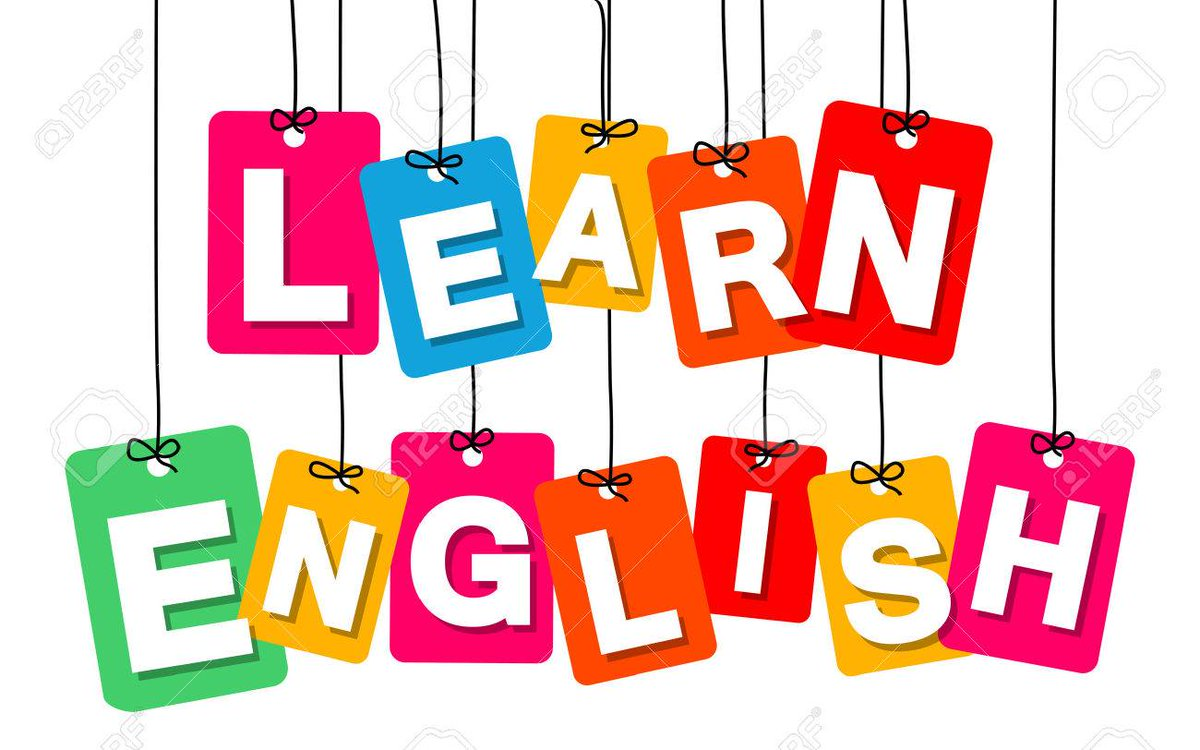
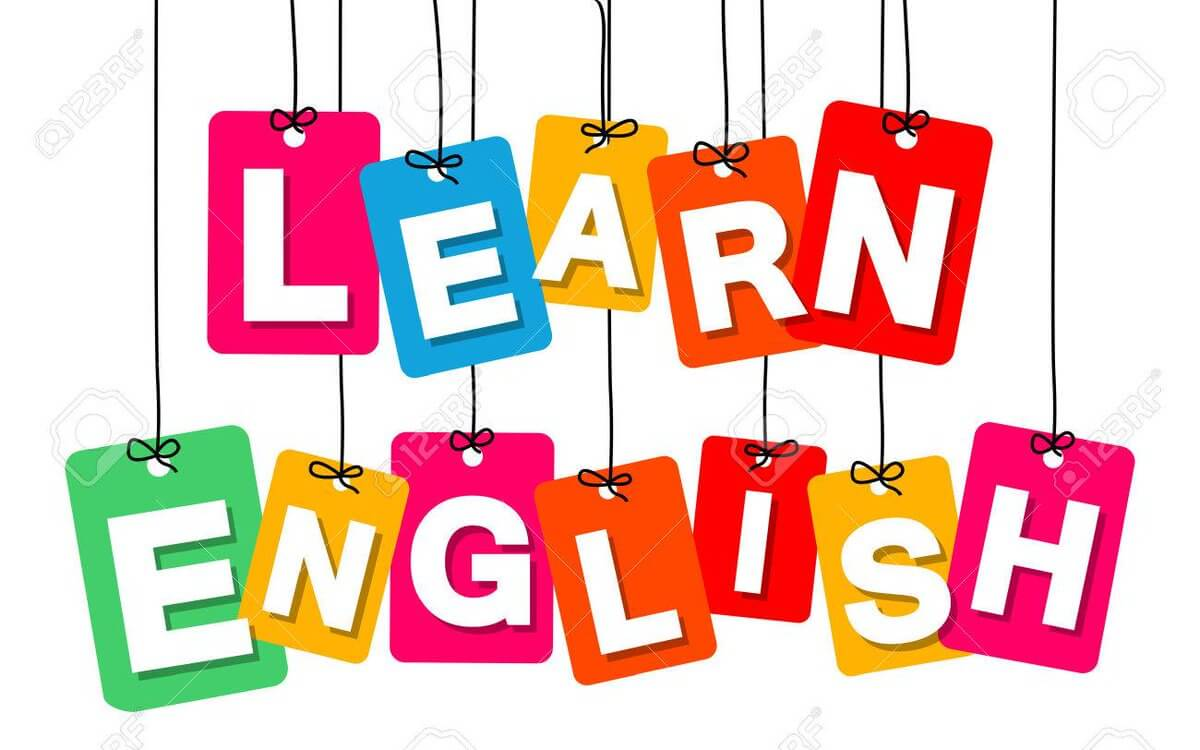
Resized Image & Added Demo Suffix Prefix

diff --git a/src/components/root/NavBar.jsx b/src/components/root/NavBar.jsx
@@ -27,7 +27,7 @@ function NavBar() {
                 </div>
                 <nav className={`${visibleMenu ? "flex" : "hidden"} transition-all duration-300 z-50 flex-col flex-grow pb-4 md:pb-0 md:flex md:justify-end md:flex-row`}>
                     <NavLink to="/courses" activeClassName="text-gray-900 bg-gray-200" className="px-4 py-2 mt-2 text-sm font-semibold rounded-lg dark-mode:bg-gray-700 dark-mode:hover:bg-gray-600 dark-mode:focus:bg-gray-600 dark-mode:focus:text-white dark-mode:hover:text-white dark-mode:text-gray-200 md:mt-0 hover:text-gray-900 focus:text-gray-900 hover:bg-gray-200 focus:bg-gray-200 focus:outline-none focus:shadow-outline" href="#">Grammer</NavLink>
-                    <NavLink to="/signup" activeClassName="text-gray-900 bg-gray-200" className="px-4 py-2 mt-2 text-sm font-semibold rounded-lg dark-mode:bg-gray-700 dark-mode:hover:bg-gray-600 dark-mode:focus:bg-gray-600 dark-mode:focus:text-white dark-mode:hover:text-white dark-mode:text-gray-200 md:mt-0 hover:text-gray-900 focus:text-gray-900 hover:bg-gray-200 focus:bg-gray-200 focus:outline-none focus:shadow-outline" href="#">Suffix & Prefix</NavLink>
+                    <NavLink to="/suffix-prefix" activeClassName="text-gray-900 bg-gray-200" className="px-4 py-2 mt-2 text-sm font-semibold rounded-lg dark-mode:bg-gray-700 dark-mode:hover:bg-gray-600 dark-mode:focus:bg-gray-600 dark-mode:focus:text-white dark-mode:hover:text-white dark-mode:text-gray-200 md:mt-0 hover:text-gray-900 focus:text-gray-900 hover:bg-gray-200 focus:bg-gray-200 focus:outline-none focus:shadow-outline">Suffix & Prefix</NavLink>
                     <NavLink to="/login" activeClassName="text-gray-900 bg-gray-200" className="px-4 py-2 mt-2 text-sm font-semibold rounded-lg dark-mode:bg-gray-700 dark-mode:hover:bg-gray-600 dark-mode:focus:bg-gray-600 dark-mode:focus:text-white dark-mode:hover:text-white dark-mode:text-gray-200 md:mt-0 hover:text-gray-900 focus:text-gray-900 hover:bg-gray-200 focus:bg-gray-200 focus:outline-none focus:shadow-outline" href="#">Vocabulary</NavLink>
                     <div onClick={toggleDrop}>
                         <button className="flex flex-row items-center w-full px-4 py-2 mt-2 text-sm font-semibold text-left bg-transparent rounded-lg dark-mode:bg-transparent dark-mode:focus:text-white dark-mode:hover:text-white dark-mode:focus:bg-gray-600 dark-mode:hover:bg-gray-600 md:w-auto md:inline md:mt-0 md:ml-4 hover:text-gray-900 focus:text-gray-900 hover:bg-gray-200 focus:bg-gray-200 focus:outline-none focus:shadow-outline">

diff --git a/src/components/Suffix&Prefix.jsx/SFHomepage.jsx b/src/components/Suffix&Prefix.jsx/SFHomepage.jsx
@@ -1,10 +1,28 @@
 import React from 'react'
+import { Link } from 'react-router-dom'
 
 function SFHomepage() {
     return (
-        <div>
-            
-        </div> 
+        <div class="flex justify-center h-full pb-8 bg-gray-200">
+            <div class="container">
+                <div class="flex justify-center p-4 my-4">
+                    <h1 class="text-xl text-blue-500">Suffix & Prefix</h1>
+                </div>
+                <div class="flex justify-center w-full">
+                    <div class="bg-white shadow-xl rounded-lg w-full md:w-1/2 mx-2">
+                        <ul class="divide-y divide-gray-300">
+                        <Link to="/suffix-prefix/er"><li class="SF-li border-b border-gray-400 flex justify-between content-center p-4 hover:bg-gray-50 cursor-pointer">Word Ends In "er" <span className="text-xl">➤</span></li></Link>
+                            <Link to="/suffix-prefix/er"><li class="SF-li border-b border-gray-400 flex justify-between content-center p-4 hover:bg-gray-50 cursor-pointer">Word Ends In "er" <span className="text-xl">➤</span></li></Link>
+                            <Link to="/suffix-prefix/er"><li class="SF-li border-b border-gray-400 flex justify-between content-center p-4 hover:bg-gray-50 cursor-pointer">Word Ends In "er" <span className="text-xl">➤</span></li></Link>
+                            <Link to="/suffix-prefix/er"><li class="SF-li border-b border-gray-400 flex justify-between content-center p-4 hover:bg-gray-50 cursor-pointer">Word Ends In "er" <span className="text-xl">➤</span></li></Link>
+                            <Link to="/suffix-prefix/er"><li class="SF-li border-b border-gray-400 flex justify-between content-center p-4 hover:bg-gray-50 cursor-pointer">Word Ends In "er" <span className="text-xl">➤</span></li></Link>
+                            <Link to="/suffix-prefix/er"><li class="SF-li border-b border-gray-400 flex justify-between content-center p-4 hover:bg-gray-50 cursor-pointer">Word Ends In "er" <span className="text-xl">➤</span></li></Link>
+
+                        </ul>
+                    </div>
+                </div>
+            </div>
+        </div>
     )
 }
 

diff --git a/src/components/Suffix&Prefix.jsx/SFWordPage.jsx b/src/components/Suffix&Prefix.jsx/SFWordPage.jsx
@@ -1,0 +1,30 @@
+import React from 'react'
+import { Link, useParams } from 'react-router-dom'
+
+function SFWordPage() {
+    const { wordEndIn } = useParams()
+    return (
+        <div class="flex justify-center h-full pb-8 bg-gray-200">
+            <div class="container">
+                <div class="flex justify-center p-4 my-4">
+                    <h1 class="text-xl text-blue-500">Word Ends In "{wordEndIn}"</h1>
+                </div>
+                <div class="flex justify-center w-full">
+                    <div class="bg-white shadow-xl rounded-lg w-full md:w-1/2 mx-2">
+                        <ul class="">
+                            <li class="SF-li border-b border-gray-400 flex justify-around content-center p-4 hover:bg-gray-50 cursor-pointer">Another<span> = </span><span>অন্যান্য</span></li>
+                            <li class="SF-li border-b border-gray-400 flex justify-around content-center p-4 hover:bg-gray-50 cursor-pointer">Another<span> = </span><span>অন্যান্য</span></li>
+                            <li class="SF-li border-b border-gray-400 flex justify-around content-center p-4 hover:bg-gray-50 cursor-pointer">Another<span> = </span><span>অন্যান্য</span></li>
+                            <li class="SF-li border-b border-gray-400 flex justify-around content-center p-4 hover:bg-gray-50 cursor-pointer">Another<span> = </span><span>অন্যান্য</span></li>
+                            <li class="SF-li border-b border-gray-400 flex justify-around content-center p-4 hover:bg-gray-50 cursor-pointer">Another<span> = </span><span>অন্যান্য</span></li>
+                            <li class="SF-li border-b border-gray-400 flex justify-around content-center p-4 hover:bg-gray-50 cursor-pointer">Another<span> = </span><span>অন্যান্য</span></li>
+
+                        </ul>
+                    </div>
+                </div>
+            </div>
+        </div>
+    )
+}
+
+export default SFWordPage

diff --git a/src/App.css b/src/App.css
@@ -1,38 +1,8 @@
-.App {
-  text-align: center;
-}
-
-.App-logo {
-  height: 40vmin;
-  pointer-events: none;
-}
-
-@media (prefers-reduced-motion: no-preference) {
-  .App-logo {
-    animation: App-logo-spin infinite 20s linear;
-  }
-}
-
-.App-header {
-  background-color: #282c34;
-  min-height: 100vh;
-  display: flex;
-  flex-direction: column;
-  align-items: center;
-  justify-content: center;
-  font-size: calc(10px + 2vmin);
-  color: white;
-}
-
-.App-link {
-  color: #61dafb;
-}
-
-@keyframes App-logo-spin {
-  from {
-    transform: rotate(0deg);
-  }
-  to {
-    transform: rotate(360deg);
-  }
+.SF-li:hover{
+  box-shadow: 0px 20px 40px rgba(0,0,0,0.4);
+  transform: scale(1.01,1.01);
+  -moz-transition: all 0.4s ease-in-out;
+  -o-transition: all 0.4s ease-in-out;
+  -webkit-transition: all 0.4s ease-in-out;
+  transition: all 0.4s ease-in-out;
 }

diff --git a/src/App.js b/src/App.js
@@ -4,6 +4,8 @@ import NavBar from './components/root/NavBar';
 import Footer from './components/root/Footer';
 import { Switch, Route } from 'react-router-dom';
 import HomePage from './components/HomePage/HomePage';
+import SFHomepage from './components/Suffix&Prefix.jsx/SFHomepage';
+import SFWordPage from './components/Suffix&Prefix.jsx/SFWordPage';
 
 function App() {
 
@@ -12,7 +14,9 @@ function App() {
     <>
       <NavBar />
       <Switch>
-        <Route to="/" exact component={HomePage} />
+        <Route path="/" exact component={HomePage} />
+        <Route path="/suffix-prefix" exact component={SFHomepage} />
+        <Route path="/suffix-prefix/:wordEndIn" exact component={SFWordPage} />
       </Switch>
       <Footer />
     </>

diff --git a/src/components/HomePage/Testimonial.jsx b/src/components/HomePage/Testimonial.jsx
@@ -1,7 +1,7 @@
 import React from 'react'
 import shovonPhoto from "../../assets/photos/shovon.jpeg"
 import billGatesPhoto from "../../assets/photos/billgates.jpeg"
-import sakibPhoto from "../../assets/photos/sakibalhasan.gif"
+import sakibPhoto from "../../assets/photos/sakibalhasan.jpeg"
 
 function Testimonial() {
     return (
